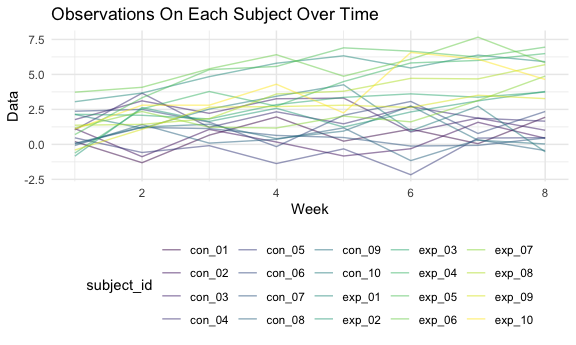
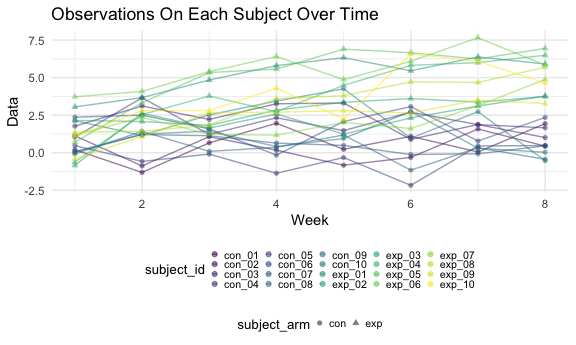
Finish problem 2 and problem 3

diff --git a/p8105_hw5_wq2161.md b/p8105_hw5_wq2161.md
@@ -70,14 +70,24 @@ long_study
 long_study %>%
   ggplot(aes(x = week, y = data_value, color = subject_id)) +
   geom_line(alpha = .5) +
+  geom_point(aes(shape = subject_arm), size = 1.5, alpha = .5) +
   labs(
     title = "Observations On Each Subject Over Time",
     x = "Week",
     y = "Data"
+  ) + 
+  theme(
+    legend.box = "vertical",
+    legend.key.size = unit(0.5, "pt"),
+    legend.title = element_text(size = 10),
+    legend.text = element_text(size = 8)
   )
 ```
 
 <img src="p8105_hw5_wq2161_files/figure-gfm/long_study-1.png" width="90%" />
+
+Based on the spaghetti plot, the data value of experimental group is
+generally greater than control group.
 
 ## Problem 3
 
@@ -116,7 +126,7 @@ refill_missing_value = function(column) {
 
 iris_refill_missing = map(iris_with_missing, refill_missing_value)
 
-iris_with_missing =
+iris_without_missing =
   tibble(
     Sepal.Length = iris_refill_missing[["Sepal.Length"]],
     Sepal.Width = iris_refill_missing[["Sepal.Width"]],
@@ -125,7 +135,7 @@ iris_with_missing =
     Species = iris_refill_missing[["Species"]]
   )
 
-iris_with_missing
+iris_without_missing
 ```
 
     ## # A tibble: 150 × 5
